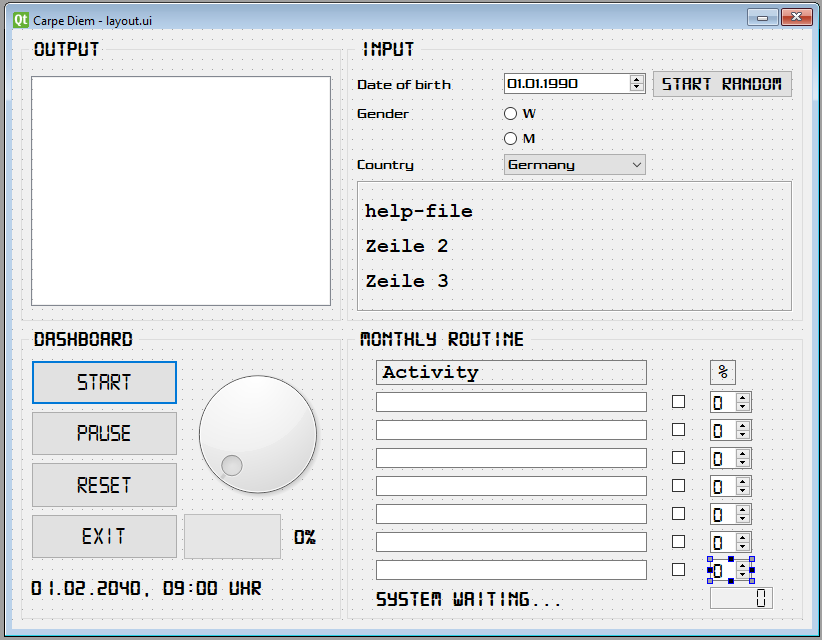
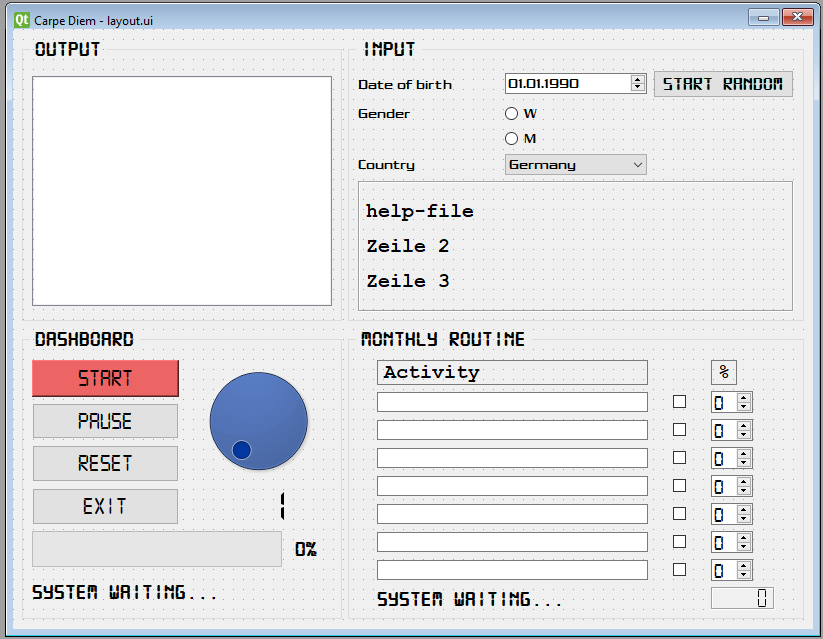
some algo

diff --git a/Main.py b/Main.py
@@ -4,6 +4,9 @@ from PyQt5 import QtWidgets, QtCore, uic, QtTest
 # variables (global)
 
 dial_speed=1
+input_year=int()
+input_gender=int()
+life_expectancy=int()
 
 class MeinDialog(QtWidgets.QDialog):
     def __init__(self, parent=None):
@@ -11,34 +14,72 @@ class MeinDialog(QtWidgets.QDialog):
         self.ui = uic.loadUi("layout.ui", self)
         
 # signals and slots 
-        self.ui.pushButtonStart.clicked.connect(self.showDateTime)
-        self.ui.pushButtonStart.clicked.connect(self.timer)
+        self.ui.pushButtonStart.clicked.connect(self.showData)
         self.ui.pushButtonExit.clicked.connect(self.exit)
         self.ui.dialWheel.valueChanged.connect(self.speed)
+
 # functions
+    
+        # show data
+    def showData(self):
+        self.fetchData()
+        self.calculateData()
+        self.showDateTime()
+        self.timer()
+
+        # calculate data
+    def calculateData(self):
+        global input_year
+        global input_gender
+        global life_expectancy
         
+        # calculate life expectancy // fix numbers for testing, catch if human already dead
+        x=datetime.datetime.now()
+        year_now=x.strftime("%Y")
+        year_now=int(year_now)
+
+        #female
+        if input_gender==0: 
+            life_expectancy=input_year + 85 # // calculate later 
+        #male
+        else:               
+            life_expectancy=input_year + 80 # // calculate later
+
+        # fetch data      
+    def fetchData(self):
+        global input_year
+        global input_gender
+        
+        # fetch year of date of birth
+        input_year=self.ui.dateEditDateBirth.date().year()
+        input_year=int(input_year)
+
+        # fetch gender
+        if self.ui.radioButtonW.isChecked():
+            input_gender=0
+        else:
+            input_gender=1
 
         # control of the counting speed with the dialWheel, global var: dial_speed
     def speed(self):
         global dial_speed
         dial_speed=self.ui.dialWheel.value()
-        
-
-        # exit program  
-    def exit(self):
-        sys.exit()
-
 
         # shows Date and Time
     def showDateTime(self):
+        global life_expectancy
         x=datetime.datetime.now().ctime()
-        y=("Start at: "+x)
+        text=" / life expectancy: "
+        z=str(life_expectancy)
+        text_final=x+text+z
+        y=(text_final)
         self.ui.listWidgetOutput.addItem(y)
 
         # timer that counts in the future with various speed 
     def timer(self):
         global dial_speed
-        #Dial from 1-100 (key) => speed QTest: 5000 - 50 (value) via dictionary
+        global life_expectancy
+        #dial from 1-100 (key) => speed QTest: 5000 - 50 (value) via dictionary
         dic_speed={}
         x= range(1,101,1)
         xkey=1000
@@ -51,7 +92,7 @@ class MeinDialog(QtWidgets.QDialog):
         self.ui.labelDateTime.setText(z)
         var=x.year
         while True:
-            if var==2099:
+            if var==life_expectancy:
                 break
             else:
                 var+=1
@@ -61,7 +102,17 @@ class MeinDialog(QtWidgets.QDialog):
         #combine QTest and dictionary 
                 d=dic_speed[dial_speed]
                 QtTest.QTest.qWait(d)
-        self.ui.labelDateTime.setText("You are dead")
+        text="life expectancy was: "
+        z=str(life_expectancy)
+        text_final=text+z
+        self.ui.labelDateTime.setText(text_final)
+
+        # exit program  
+    def exit(self):
+        sys.exit()
+
+# testing output
+#print(input_gender)
 
 app = QtWidgets.QApplication(sys.argv)
 dialog = MeinDialog()
